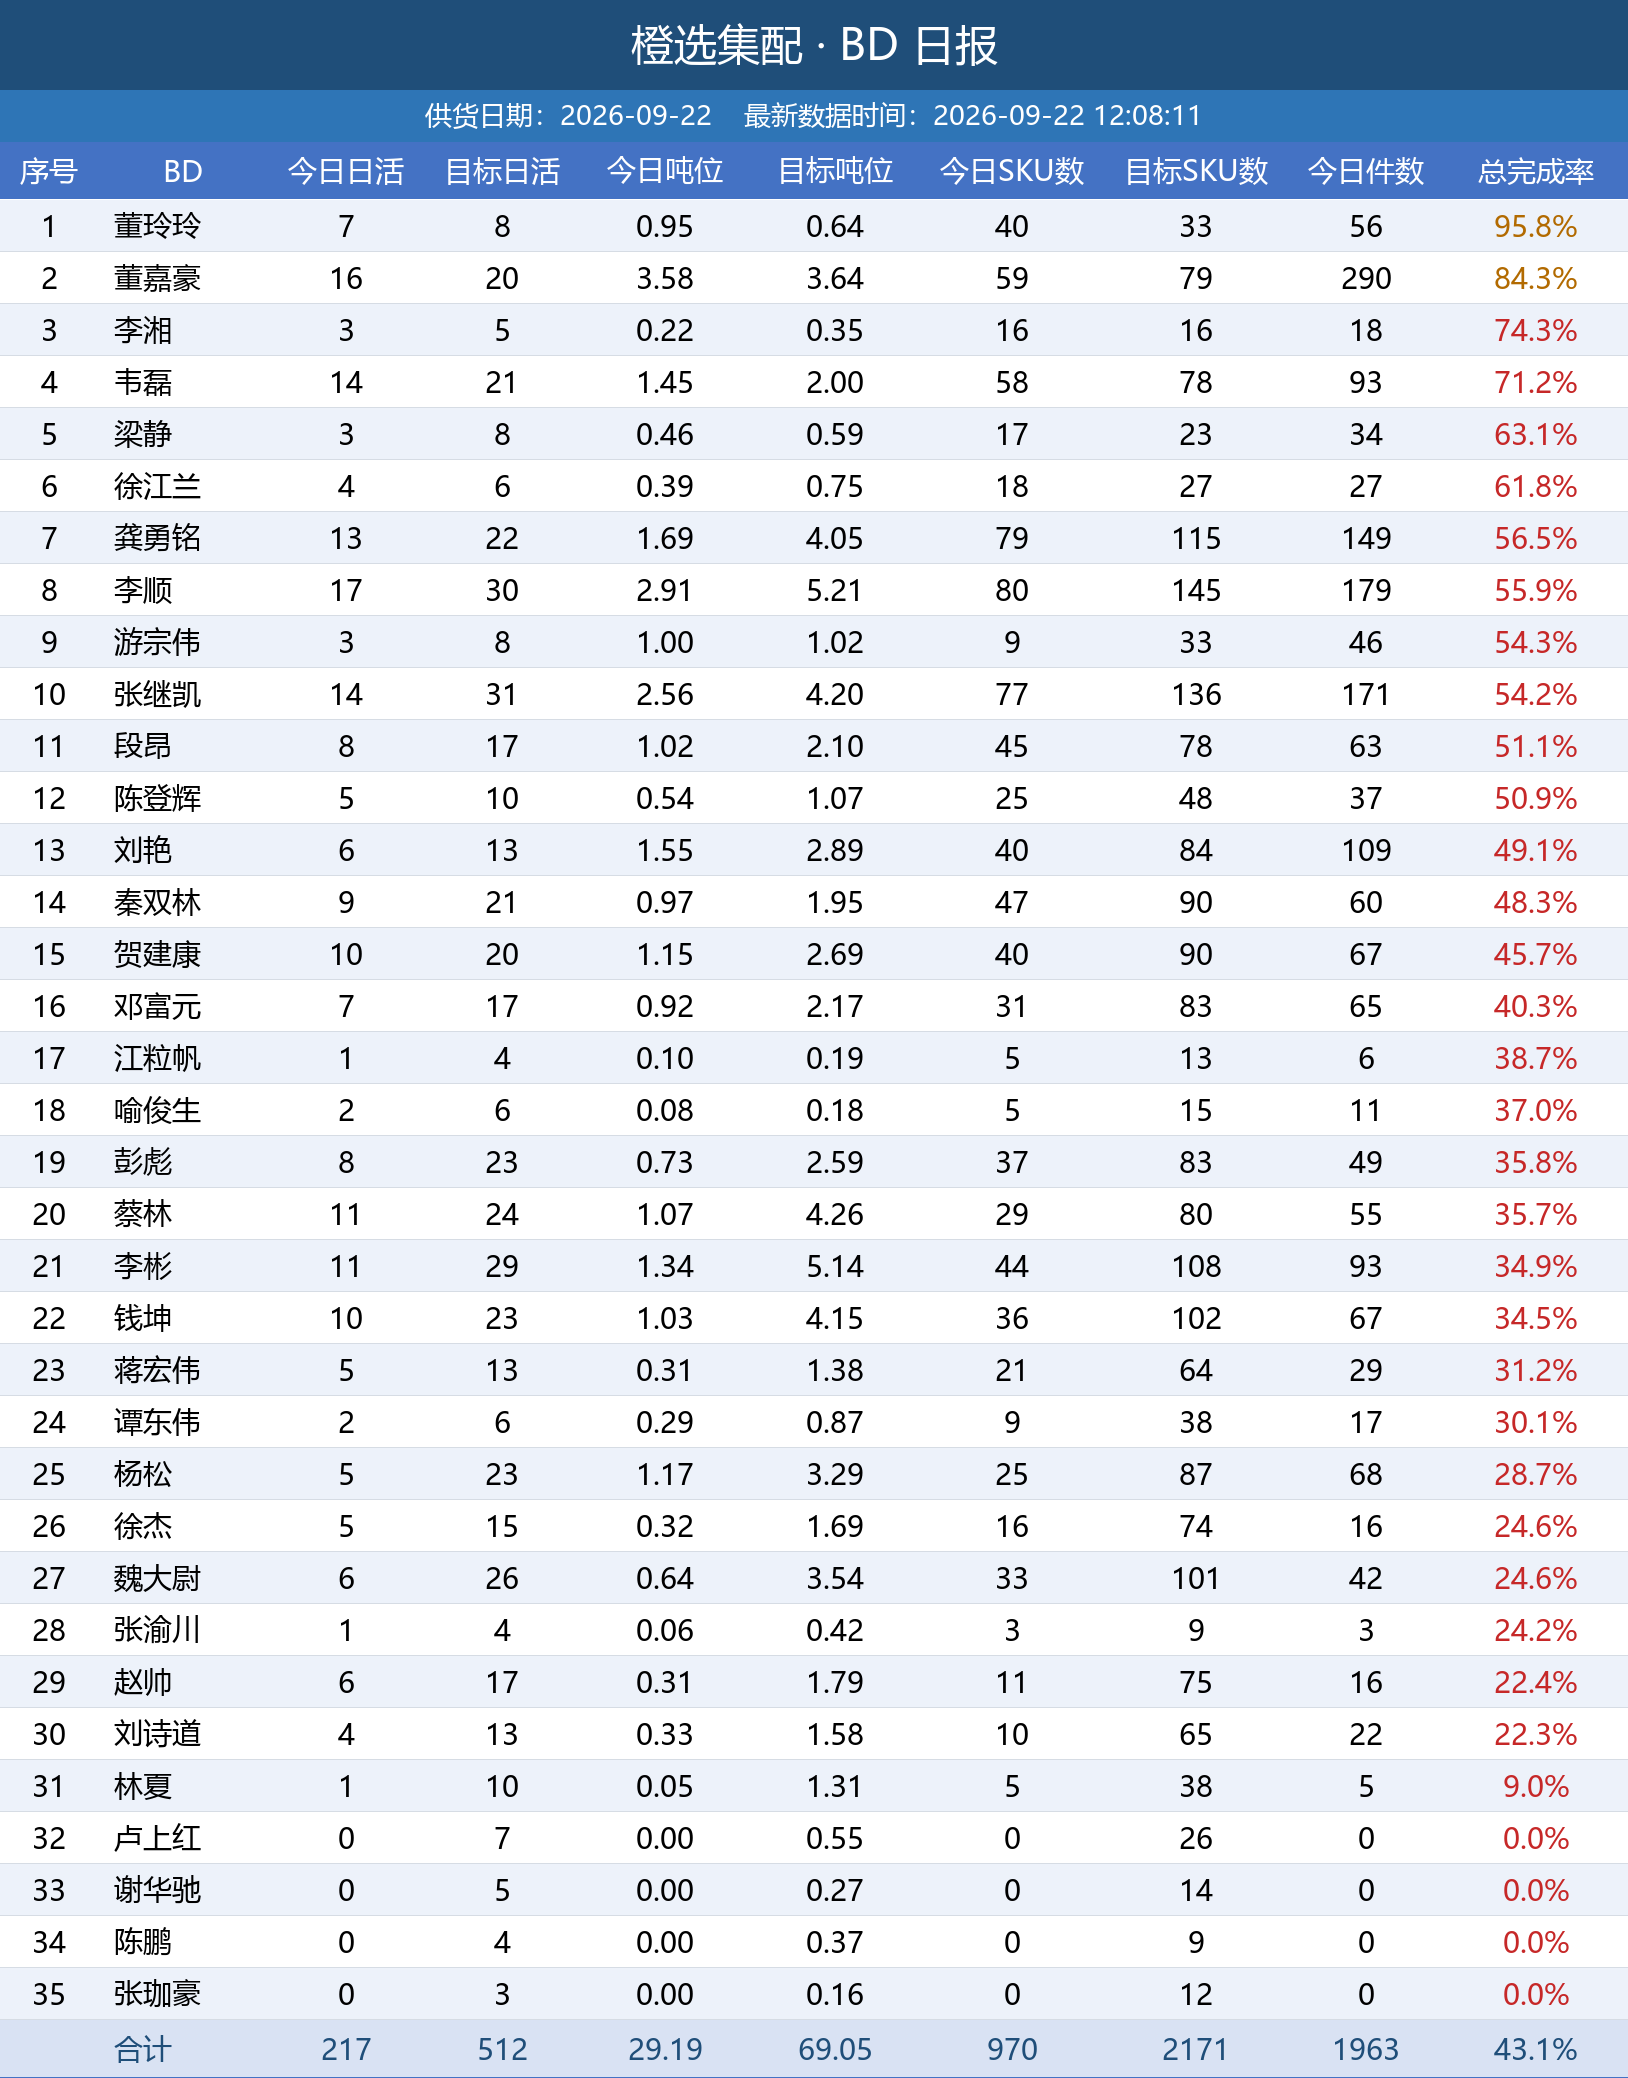
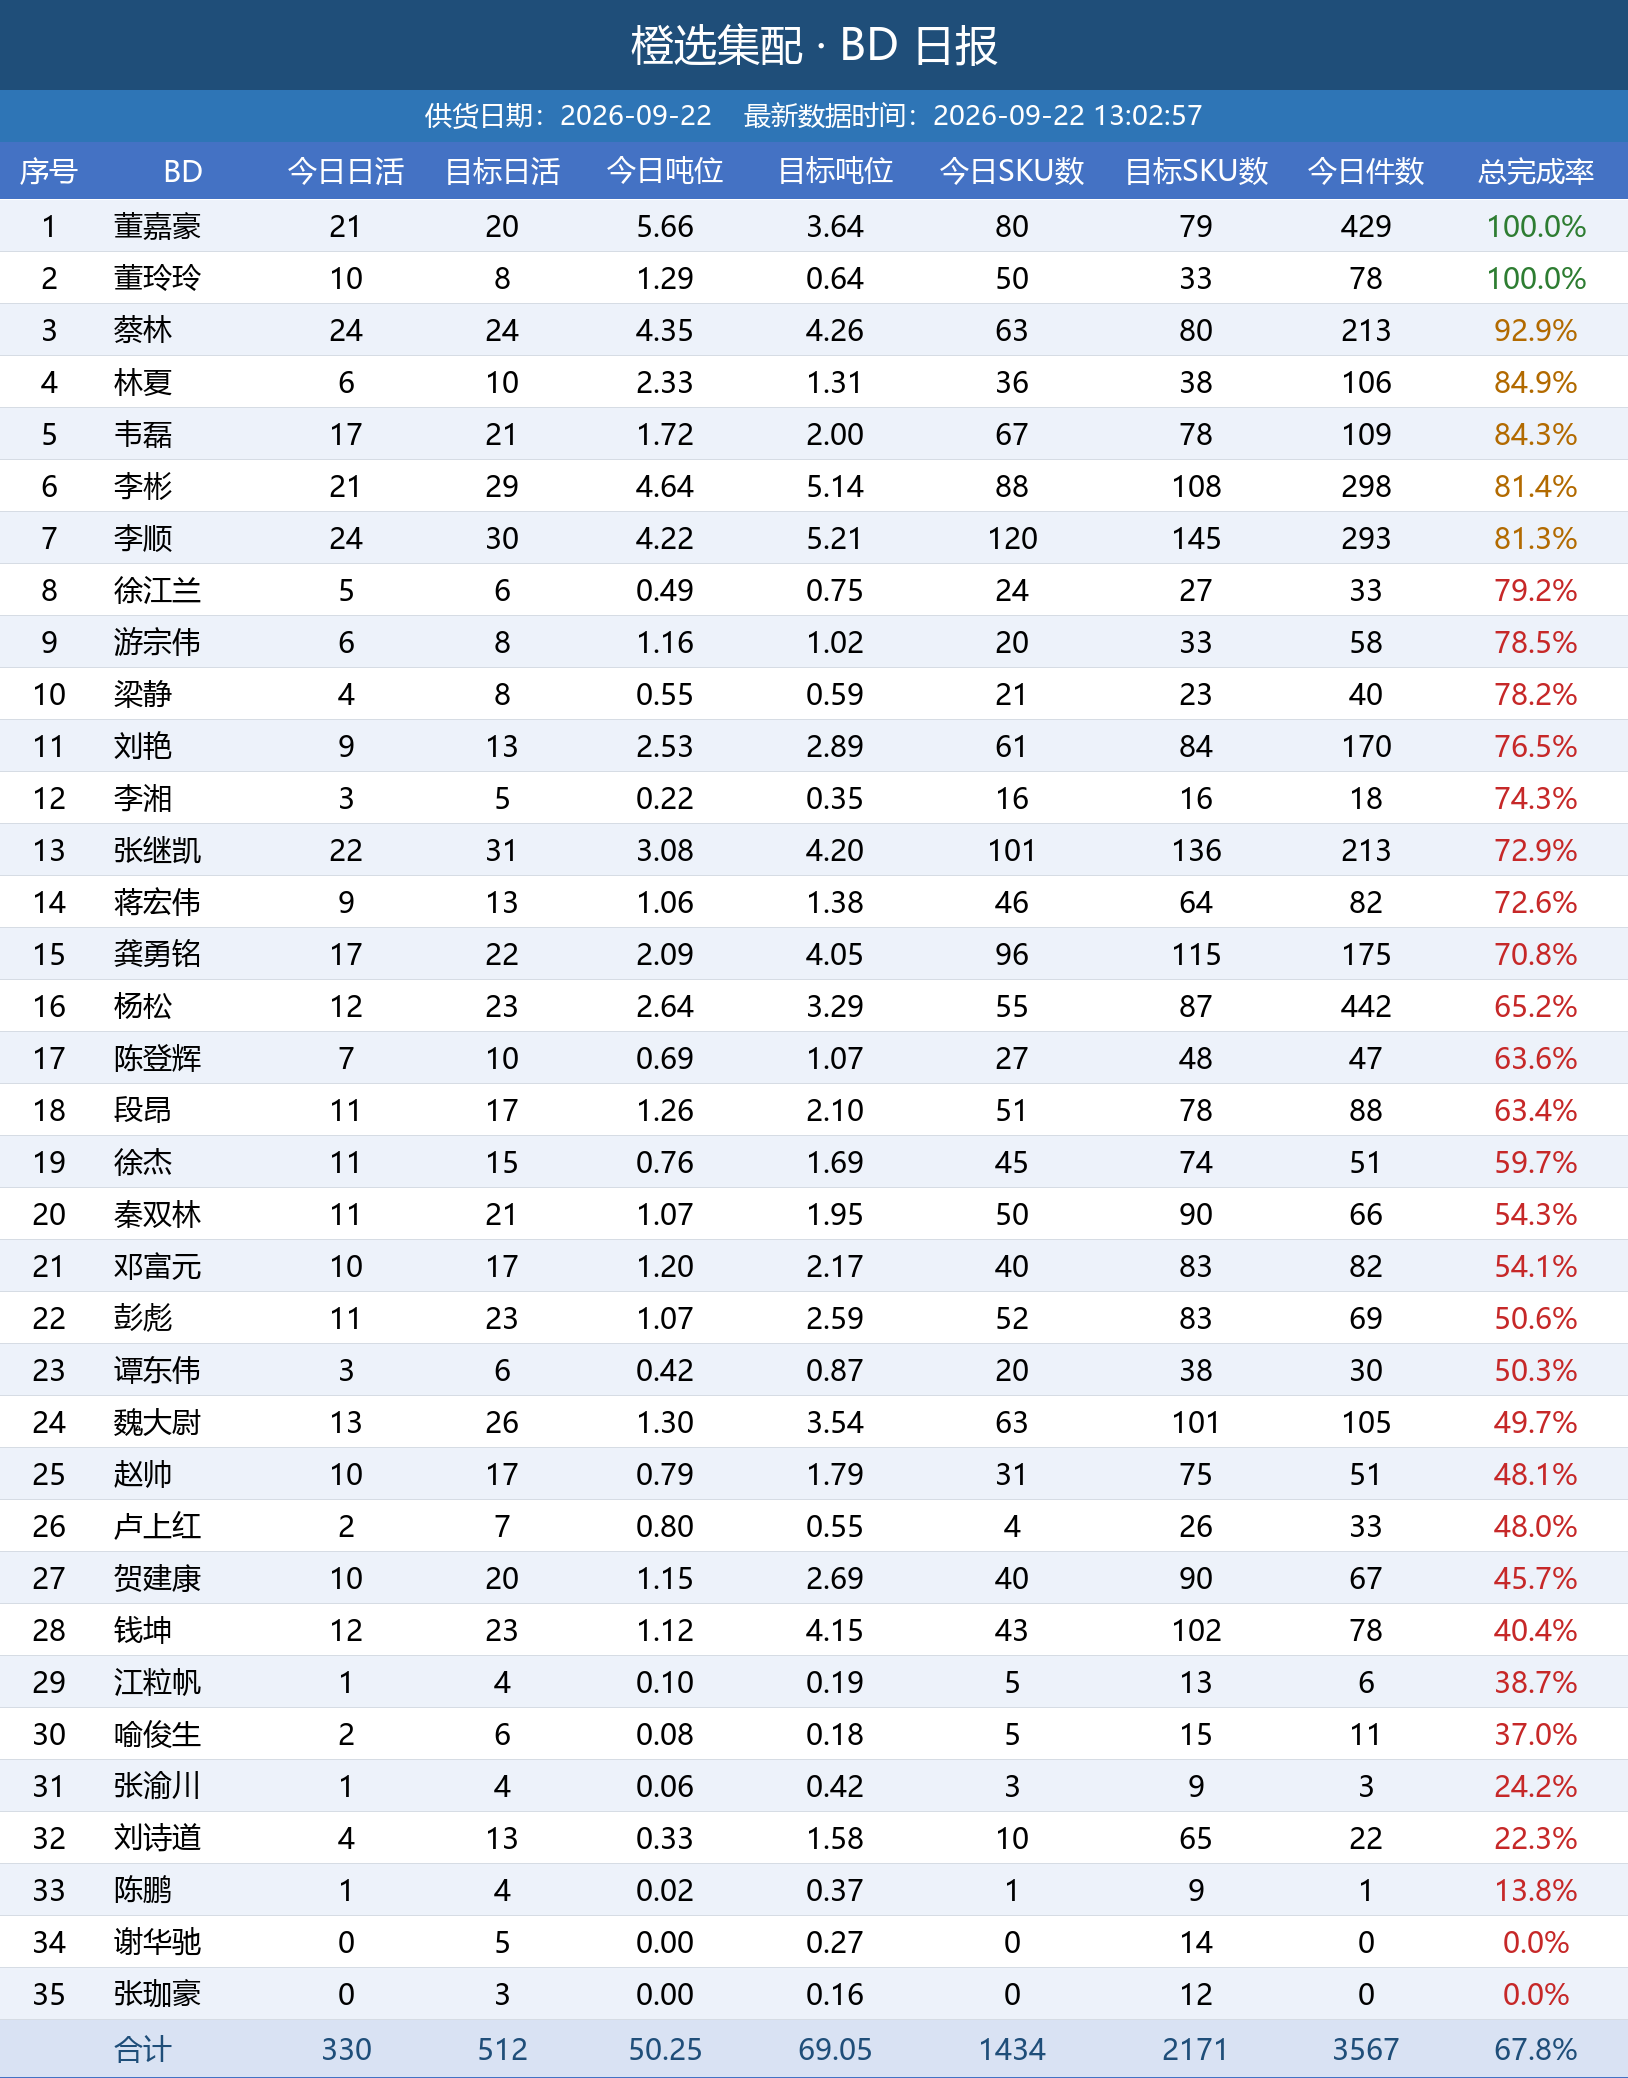
自动更新日报图片

diff --git a/daily_report/index.html b/daily_report/index.html
@@ -11,7 +11,7 @@ img { max-width: 100%; border: 1px solid #e5e5e5; margin-bottom: 24px; display: 
 </style>
 </head>
 <body>
-<h1>橙选集配日报图片（20260922_120925）</h1>
+<h1>橙选集配日报图片（20260922_130425）</h1>
 <img src="bd_latest.png" alt="BD 日报">
 <img src="wh_latest.png" alt="城市仓日报">
 <img src="zs_latest.png" alt="招商日报">
